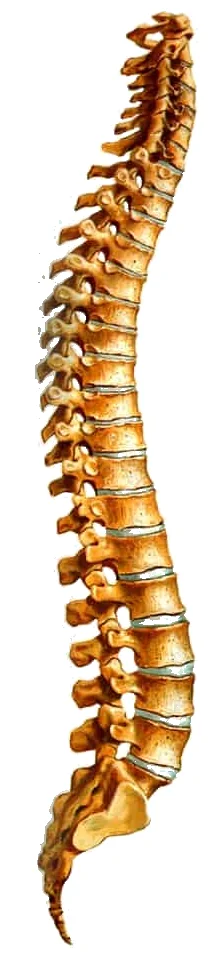
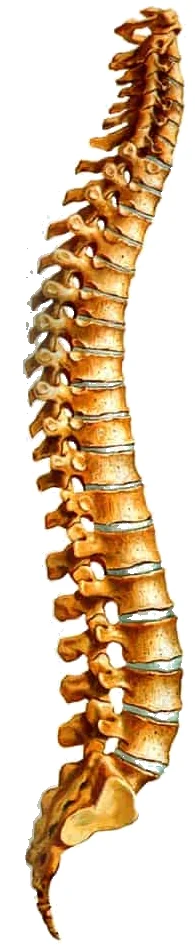
Update cropped images (modern spine, seated man)

diff --git a/site/index.html b/site/index.html
@@ -54,7 +54,7 @@
               <figcaption><strong>Autrefois.</strong> Assise droite sur un support bas. Carte postale ancienne « Vieille porteuse d'eau de Morlaix » (Artaud et Nozais, Nantes).</figcaption>
             </figure>
             <figure>
-              <img src="img/homme-assis.webp" width="612" height="417" loading="lazy" alt="Photographie d'illustration : un jeune homme assis dans un canapé, penché vers un ordinateur portable posé devant lui.">
+              <img src="img/homme-assis.webp" width="430" height="417" loading="lazy" alt="Photographie d'illustration : un jeune homme assis dans un canapé, penché vers un ordinateur portable posé devant lui.">
               <figcaption><strong>Aujourd'hui.</strong> Assis sur un canapé, penché sur un écran (photographie d'illustration).</figcaption>
             </figure>
           </div>
@@ -93,7 +93,7 @@
               <figcaption><strong>1934.</strong> Coupe tirée de <cite>L'Anatomie en poche</cite> (V. Pauchet et S. Dupret).</figcaption>
             </figure>
             <figure>
-              <img src="img/colonne-moderne.webp" width="222" height="955" loading="lazy" alt="Planche d'anatomie moderne : colonne vertébrale humaine vue de profil, du rachis cervical au sacrum, le dos orienté vers la gauche.">
+              <img src="img/colonne-moderne.webp" width="195" height="950" loading="lazy" alt="Planche d'anatomie moderne : colonne vertébrale humaine vue de profil, du rachis cervical au sacrum, le dos orienté vers la gauche.">
               <figcaption><strong>Aujourd'hui.</strong> Planche d'anatomie moderne (<a href="https://www.chirurgie-rachidienne.com/anatomie-2/">chirurgie-rachidienne.com</a>).</figcaption>
             </figure>
           </div>
